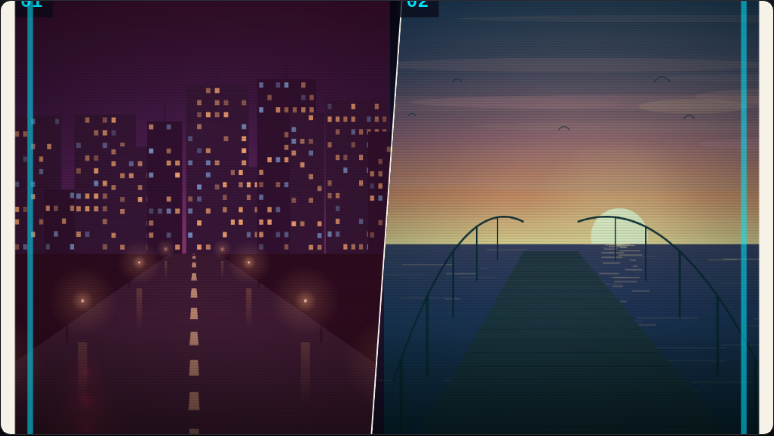
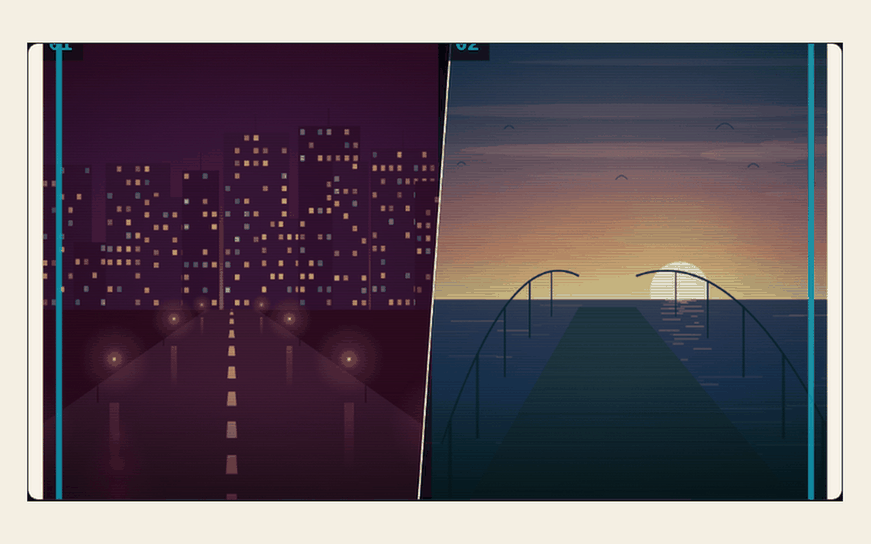
Rescale the four screenshots into the gate's size window (long side <=1280, short side >=480, each <=256 KiB)

diff --git a/tools/normalize_shots.py b/tools/normalize_shots.py
@@ -1,0 +1,77 @@
+"""Normalise the four screenshots to the gate's screenshot row.
+
+The gate (competition.yaml, screenshots row) demands each image be:
+  - at most 256 KiB
+  - long side at most 1280 px and short side at least 480 px
+
+The first render produced 1280x1400 (long 1400) and a 774x436 poster clip
+(short 436), so all four failed the row and the whole entry scored 0.
+This pass rescales every PNG into that window without cropping, then
+re-checks the byte cap after each resize.
+"""
+from __future__ import annotations
+
+import glob
+import os
+import sys
+
+from PIL import Image
+
+MAX_BYTES = 262144
+
+
+def target_size(w: int, h: int) -> tuple[int, int]:
+    """Scale (w, h) so the long side <= 1280 and the short side >= 480."""
+    scale = min(1280.0 / max(w, h), 1e9)
+    nw, nh = int(round(w * scale)), int(round(h * scale))
+    if min(nw, nh) < 480:
+        up = 480.0 / min(nw, nh)
+        nw, nh = int(round(nw * up)), int(round(nh * up))
+    # One more clamp in case the upscale pushed the long side past 1280.
+    if max(nw, nh) > 1280:
+        down = 1280.0 / max(nw, nh)
+        nw, nh = int(round(nw * down)), int(round(nh * down))
+    return nw, nh
+
+
+def fix(path: str) -> str:
+    im = Image.open(path).convert("RGB")
+    w, h = im.size
+    nw, nh = target_size(w, h)
+    if (nw, nh) != (w, h):
+        im = im.resize((nw, nh), Image.LANCZOS)
+    out = im
+    for _ in range(8):
+        out.save(path, format="PNG", optimize=True)
+        if os.path.getsize(path) <= MAX_BYTES:
+            break
+        # Shrink while keeping the gate's window.
+        w2, h2 = out.size
+        s = 0.88
+        cw, ch = int(w2 * s), int(h2 * s)
+        if min(cw, ch) < 480:
+            break
+        out = out.resize((cw, ch), Image.LANCZOS)
+    got = Image.open(path)
+    size = os.path.getsize(path)
+    long_side, short_side = max(got.size), min(got.size)
+    ok = size <= MAX_BYTES and long_side <= 1280 and short_side >= 480
+    print(
+        f"{os.path.basename(path):16s} {got.size[0]}x{got.size[1]} "
+        f"{size:>7} bytes long={long_side} short={short_side} "
+        f"{'OK' if ok else 'FAIL'}"
+    )
+    return "OK" if ok else "FAIL"
+
+
+def main() -> int:
+    paths = sorted(glob.glob("screenshots/*.png"))
+    if not paths:
+        print("no screenshots found", file=sys.stderr)
+        return 1
+    results = [fix(p) for p in paths]
+    return 0 if all(r == "OK" for r in results) else 1
+
+
+if __name__ == "__main__":
+    raise SystemExit(main())
